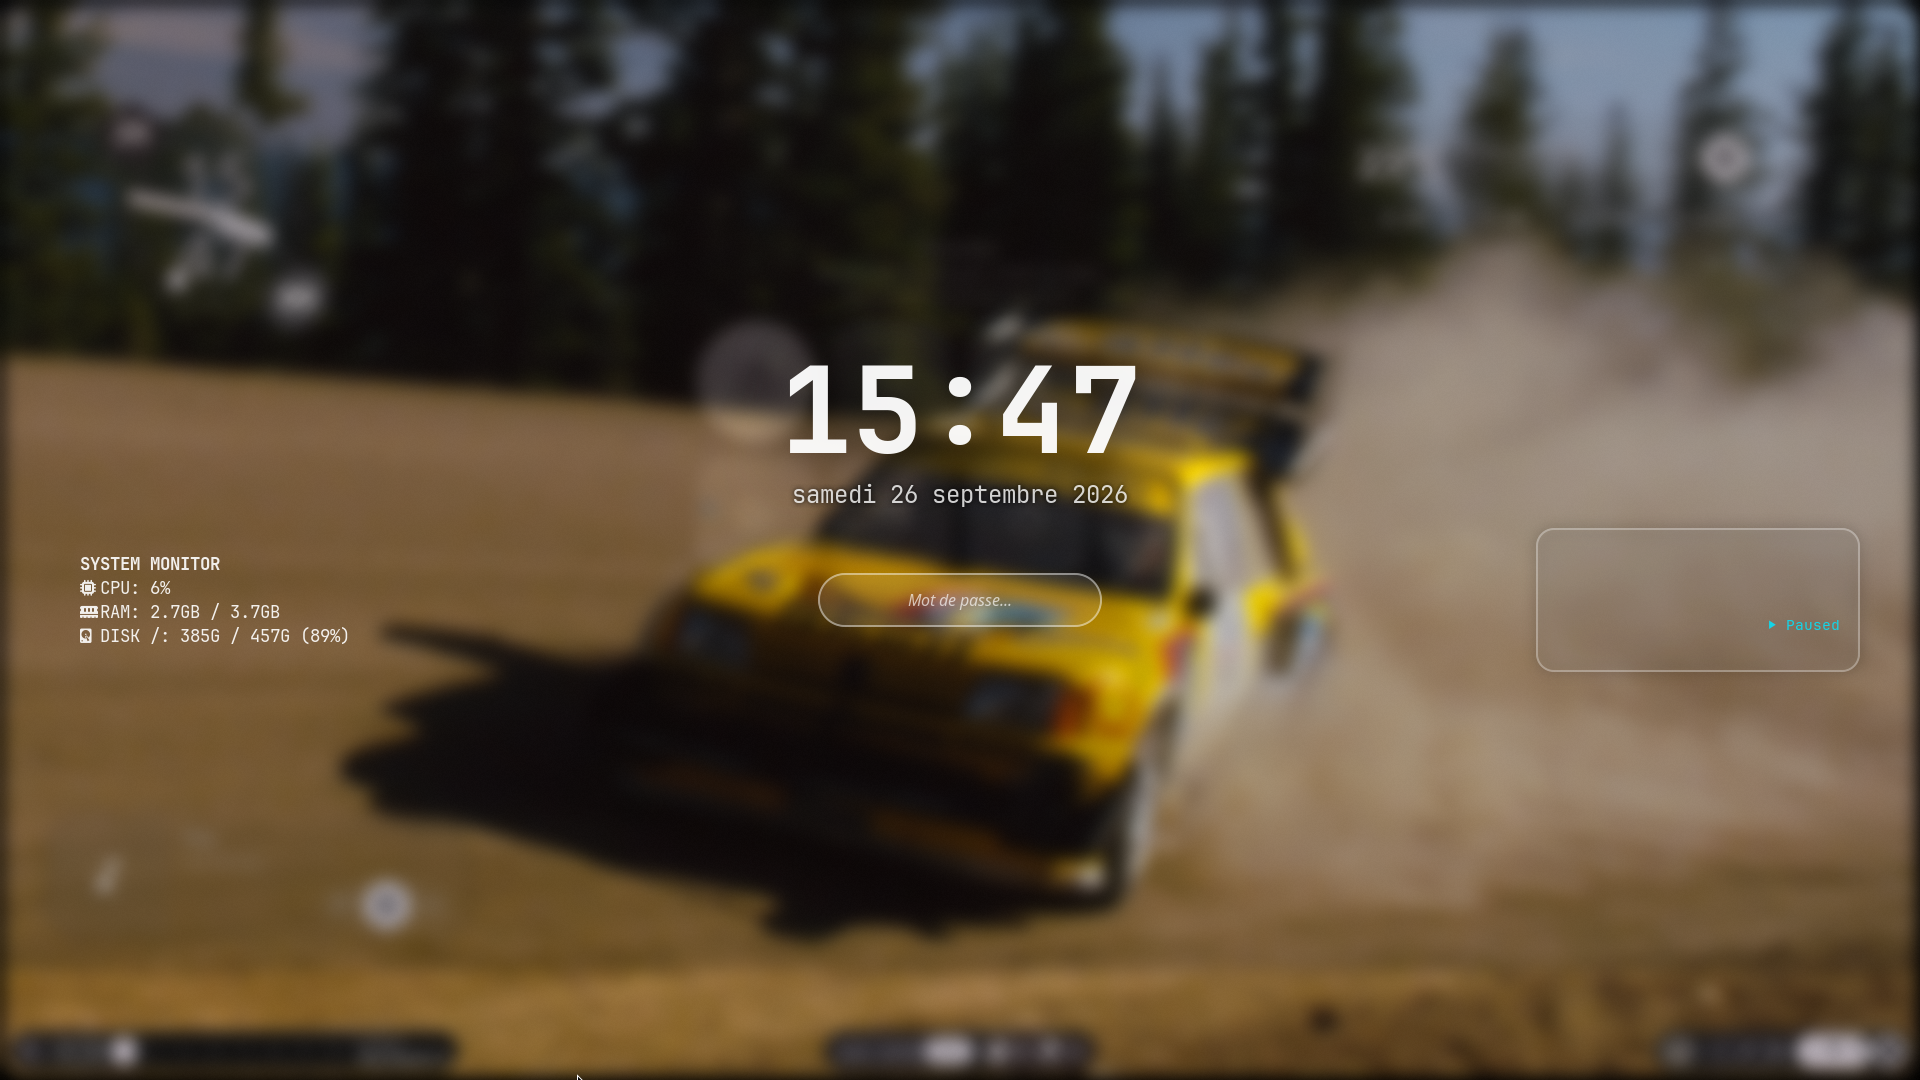
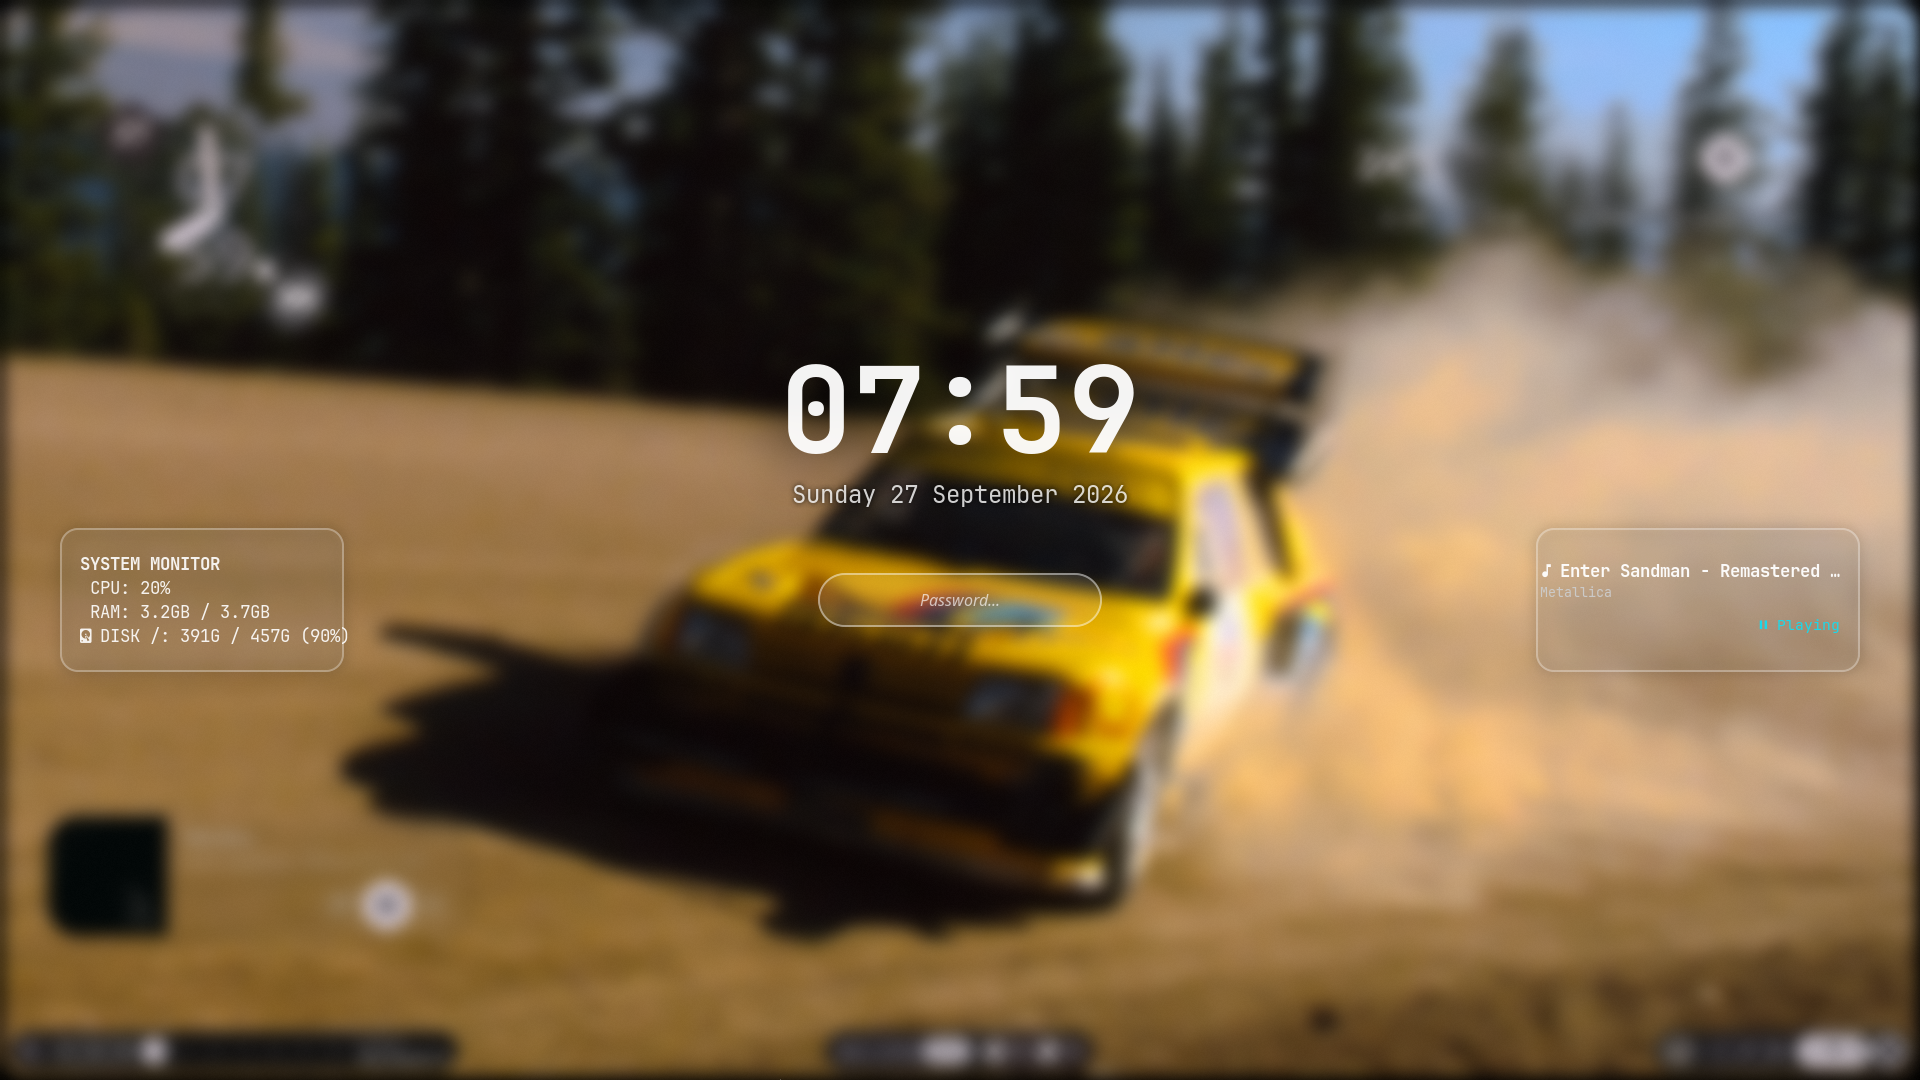
fix bug, add titre and artist on music player

diff --git a/scripts/install.py b/scripts/install.py
@@ -8,7 +8,7 @@ elif authorisation == "Y" or authorisation == "y":
     print("Installing...")
 
 processus = subprocess.Popen(
-    ["bash", "./scripts/coping-files.sh"],
+    ["bash", "./scripts/install-files.sh"],
     stdout=subprocess.PIPE,
     stderr=subprocess.STDOUT,  
     text=True,
